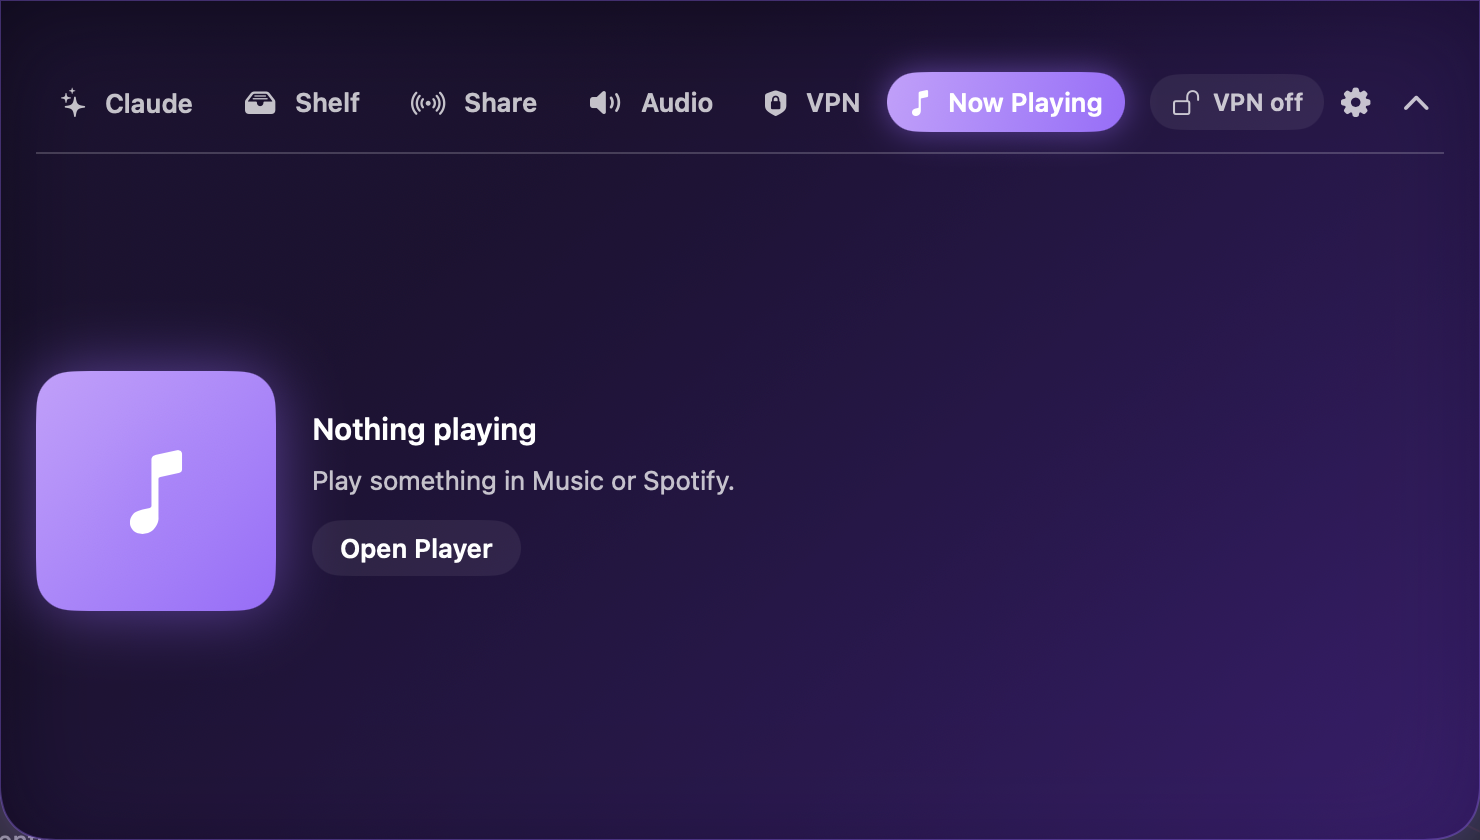
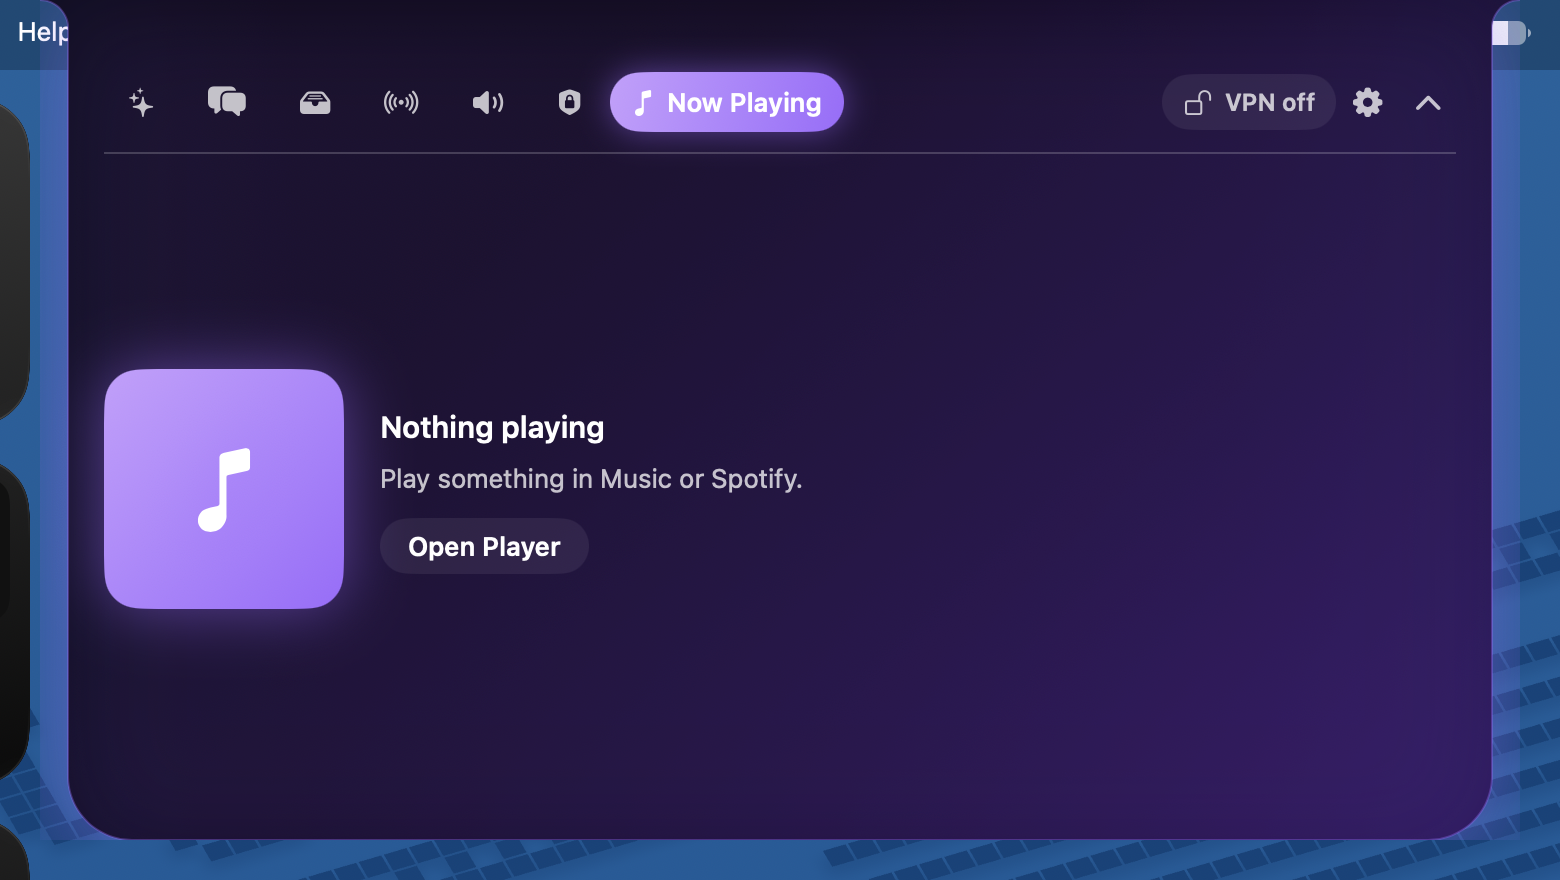
1.3.1: create Messenger rooms, rounded notch silhouette
- Messenger: New room generates a hard-to-guess code, joins it and copies it;
  Copy code while joined; joined notices even when a message beats presence.
- Notch: concave shoulders where it meets the menu bar and continuous rounded
  bottom corners, on both the closed notch and the open panel.
- Fresh README screenshots.

Changed region(s): [[0.0, 0.0, 1.0, 1.0]]

diff --git a/NotchApple/UI/NotchRootView.swift b/NotchApple/UI/NotchRootView.swift
@@ -9,24 +9,46 @@
 
 import SwiftUI
 
-/// Notch silhouette: flat top edge, softly rounded bottom corners.
+/// Notch silhouette, like the MacBook's own notch: concave "shoulders" where
+/// it meets the menu bar, straight sides, and continuous rounded bottom corners.
 struct NotchShape: Shape {
+    var topRadius: CGFloat
     var bottomRadius: CGFloat
-    var animatableData: CGFloat {
-        get { bottomRadius }
-        set { bottomRadius = newValue }
+    /// When false the flat top edge is omitted (used for the outline stroke,
+    /// so no line is drawn along the top of the screen).
+    var closed = true
+
+    var animatableData: AnimatablePair<CGFloat, CGFloat> {
+        get { AnimatablePair(topRadius, bottomRadius) }
+        set { topRadius = newValue.first; bottomRadius = newValue.second }
     }
 
     func path(in rect: CGRect) -> Path {
-        let r = min(bottomRadius, rect.height / 2, rect.width / 2)
+        let t = min(topRadius, rect.width / 4, rect.height / 4)
+        let b = min(bottomRadius, (rect.width - 2 * t) / 2, rect.height - t)
+        let k: CGFloat = 0.55   // cubic approximation of a circular arc
         var p = Path()
         p.move(to: CGPoint(x: rect.minX, y: rect.minY))
-        p.addLine(to: CGPoint(x: rect.maxX, y: rect.minY))
-        p.addLine(to: CGPoint(x: rect.maxX, y: rect.maxY - r))
-        p.addQuadCurve(to: CGPoint(x: rect.maxX - r, y: rect.maxY), control: CGPoint(x: rect.maxX, y: rect.maxY))
-        p.addLine(to: CGPoint(x: rect.minX + r, y: rect.maxY))
-        p.addQuadCurve(to: CGPoint(x: rect.minX, y: rect.maxY - r), control: CGPoint(x: rect.minX, y: rect.maxY))
-        p.closeSubpath()
+        // Left shoulder curves down and in.
+        p.addCurve(to: CGPoint(x: rect.minX + t, y: rect.minY + t),
+                   control1: CGPoint(x: rect.minX + t * k, y: rect.minY),
+                   control2: CGPoint(x: rect.minX + t, y: rect.minY + t * (1 - k)))
+        p.addLine(to: CGPoint(x: rect.minX + t, y: rect.maxY - b))
+        // Bottom-left corner.
+        p.addCurve(to: CGPoint(x: rect.minX + t + b, y: rect.maxY),
+                   control1: CGPoint(x: rect.minX + t, y: rect.maxY - b * (1 - k)),
+                   control2: CGPoint(x: rect.minX + t + b * (1 - k), y: rect.maxY))
+        p.addLine(to: CGPoint(x: rect.maxX - t - b, y: rect.maxY))
+        // Bottom-right corner.
+        p.addCurve(to: CGPoint(x: rect.maxX - t, y: rect.maxY - b),
+                   control1: CGPoint(x: rect.maxX - t - b * (1 - k), y: rect.maxY),
+                   control2: CGPoint(x: rect.maxX - t, y: rect.maxY - b * (1 - k)))
+        p.addLine(to: CGPoint(x: rect.maxX - t, y: rect.minY + t))
+        // Right shoulder curves up and out.
+        p.addCurve(to: CGPoint(x: rect.maxX, y: rect.minY),
+                   control1: CGPoint(x: rect.maxX - t, y: rect.minY + t * (1 - k)),
+                   control2: CGPoint(x: rect.maxX - t * k, y: rect.minY))
+        if closed { p.closeSubpath() }
         return p
     }
 }
@@ -36,14 +58,19 @@ struct NotchRootView: View {
     @EnvironmentObject private var settings: SettingsManager
 
     var body: some View {
-        let size = state.isExpanded ? state.expandedSize : state.notchSize
+        let shoulder = state.isExpanded ? Self.expandedShoulder : Self.collapsedShoulder
+        let size = state.isExpanded
+            ? state.expandedSize
+            : CGSize(width: state.notchSize.width + 2 * shoulder, height: state.notchSize.height)
+        let bottom: CGFloat = state.isExpanded ? 32 : 10
         ZStack(alignment: .top) {
-            NotchShape(bottomRadius: state.isExpanded ? 28 : 10)
+            NotchShape(topRadius: shoulder, bottomRadius: bottom)
                 .fill(state.isExpanded ? AnyShapeStyle(Theme.backdrop) : AnyShapeStyle(Color.black))
                 .overlay {
                     if state.isExpanded {
-                        NotchShape(bottomRadius: 28).fill(.ultraThinMaterial).opacity(0.25)
-                        NotchShape(bottomRadius: 28).stroke(Theme.accent.opacity(0.35), lineWidth: 1)
+                        NotchShape(topRadius: shoulder, bottomRadius: bottom).fill(.ultraThinMaterial).opacity(0.25)
+                        NotchShape(topRadius: shoulder, bottomRadius: bottom, closed: false)
+                            .stroke(Theme.accent.opacity(0.35), lineWidth: 1)
                     }
                 }
                 .shadow(color: state.isExpanded ? Theme.accent.opacity(0.35) : .clear, radius: 24, y: 8)
@@ -62,6 +89,10 @@ struct NotchRootView: View {
         .tint(Theme.accent)
     }
 
+    /// Radius of the concave shoulders where the notch meets the menu bar.
+    static let collapsedShoulder: CGFloat = 6
+    static let expandedShoulder: CGFloat = 14
+
     @ViewBuilder
     private var expandedContent: some View {
         if settings.securityEnabled && !state.isUnlocked {
@@ -76,8 +107,8 @@ struct NotchRootView: View {
                     .transition(.asymmetric(insertion: .move(edge: .trailing).combined(with: .opacity),
                                             removal: .opacity))
             }
-            .padding(.horizontal, 18)
-            .padding(.bottom, 16)
+            .padding(.horizontal, 18 + Self.expandedShoulder)
+            .padding(.bottom, 18)
             .onAppear(perform: ensureValidSelection)
             .onChange(of: settings.enabledTabs) { _, _ in ensureValidSelection() }
         }

diff --git a/NotchApple/Modules/Messenger/NotchMessengerView.swift b/NotchApple/Modules/Messenger/NotchMessengerView.swift
@@ -18,6 +18,7 @@ struct NotchMessengerView: View {
     @StateObject private var identity = MessengerIdentity.shared
     @State private var draft = ""
     @State private var roomDraft = ""
+    @State private var copied = false
 
     private static let emoji = ["👋", "😂", "👍", "❤", "🔥", "🎉"]
 
@@ -95,8 +96,20 @@ struct NotchMessengerView: View {
             TextField("Room code, e.g. cafe-study or 8821", text: $roomDraft)
                 .textFieldStyle(.plain).font(.system(size: 13))
                 .onSubmit(joinRoom)
+            if web.state == .joined, let room = web.room {
+                // Share: copy the code so friends can join the same room.
+                Button { copy(room) } label: {
+                    Label(copied ? "Copied" : "Copy code", systemImage: copied ? "checkmark" : "doc.on.doc")
+                }
+                .buttonStyle(PurpleButtonStyle(prominent: false))
+                .help("Copy this room's code to share it")
+            }
             if web.state == .joined || web.state == .connecting {
                 Button("Leave") { web.leave() }.buttonStyle(PurpleButtonStyle(prominent: false))
+            } else {
+                Button { createRoom() } label: { Label("New room", systemImage: "plus.bubble") }
+                    .buttonStyle(PurpleButtonStyle(prominent: false))
+                    .help("Create a private room with a hard-to-guess code")
             }
             Button(web.room == WebP2PManager.normalize(roomDraft) && web.state == .joined ? "Joined" : "Join", action: joinRoom)
                 .buttonStyle(PurpleButtonStyle())
@@ -105,6 +118,22 @@ struct NotchMessengerView: View {
         .padding(.horizontal, 12).frame(height: 36)
         .background(Theme.surface, in: RoundedRectangle(cornerRadius: 10))
         .help("Anyone with the same code joins the same room. Messages are end-to-end encrypted with a key made from the code, so longer codes are more private.")
+    }
+
+    /// Creates a new private room: a random, hard-to-guess code (about 10¹² combinations),
+    /// joins it, and copies the code so it can be pasted to friends.
+    private func createRoom() {
+        let code = WebP2PManager.newRoomCode()
+        roomDraft = code
+        joinRoom()
+        copy(code)
+    }
+
+    private func copy(_ code: String) {
+        NSPasteboard.general.clearContents()
+        NSPasteboard.general.setString(code, forType: .string)
+        withAnimation { copied = true }
+        DispatchQueue.main.asyncAfter(deadline: .now() + 2) { withAnimation { copied = false } }
     }
 
     private func joinRoom() {
@@ -138,7 +167,9 @@ struct NotchMessengerView: View {
                 .font(.system(size: 26)).foregroundStyle(Theme.accentGradient)
             Text(mode == .nearby
                  ? "Anyone on this Wi-Fi with Notch apple and Messenger open shows up here automatically."
-                 : "Type a room code and press Join. Share the same code with friends to chat. Messages are end-to-end encrypted and never stored.")
+                 : web.state == .joined
+                 ? "You're in the room. Press Copy code and send it to friends; anyone with the code can join."
+                 : "Press New room to create a private room (its code is copied for you to share), or type a friend's code and press Join. Messages are end-to-end encrypted and never stored.")
                 .font(.system(size: 12)).foregroundStyle(Theme.textSecondary)
                 .multilineTextAlignment(.center).frame(maxWidth: 420)
         }

diff --git a/NotchApple/App/NotchWindowController.swift b/NotchApple/App/NotchWindowController.swift
@@ -88,7 +88,7 @@ final class NotchTriggerView: NSView {
     override func draw(_ dirtyRect: NSRect) {
         // The visible notch sits in the middle of the padded hit area.
         let pad = Self.hitPadding
-        var notch = bounds.insetBy(dx: pad.width, dy: 0)
+        var notch = bounds.insetBy(dx: pad.width - NotchRootView.collapsedShoulder, dy: 0)
         notch.origin.y += pad.height
         notch.size.height -= pad.height
         if isHovered {
@@ -98,17 +98,7 @@ final class NotchTriggerView: NSView {
             notch.size.height += 3
         }
 
-        let r = min(10, notch.height / 2)
-        let path = NSBezierPath()
-        path.move(to: NSPoint(x: notch.minX, y: notch.maxY))
-        path.line(to: NSPoint(x: notch.maxX, y: notch.maxY))
-        path.line(to: NSPoint(x: notch.maxX, y: notch.minY + r))
-        path.curve(to: NSPoint(x: notch.maxX - r, y: notch.minY),
-                   controlPoint1: NSPoint(x: notch.maxX, y: notch.minY), controlPoint2: NSPoint(x: notch.maxX, y: notch.minY))
-        path.line(to: NSPoint(x: notch.minX + r, y: notch.minY))
-        path.curve(to: NSPoint(x: notch.minX, y: notch.minY + r),
-                   controlPoint1: NSPoint(x: notch.minX, y: notch.minY), controlPoint2: NSPoint(x: notch.minX, y: notch.minY))
-        path.close()
+        let path = Self.notchPath(in: notch, shoulder: NotchRootView.collapsedShoulder, bottom: min(10, notch.height / 2))
         NSColor.black.setFill()
         path.fill()
 
@@ -117,6 +107,30 @@ final class NotchTriggerView: NSView {
             path.lineWidth = 1.5
             path.stroke()
         }
+    }
+
+    /// AppKit twin of `NotchShape` (AppKit's y axis points up, so top = maxY).
+    static func notchPath(in r: NSRect, shoulder t: CGFloat, bottom b: CGFloat) -> NSBezierPath {
+        let k: CGFloat = 0.55
+        let p = NSBezierPath()
+        p.move(to: NSPoint(x: r.minX, y: r.maxY))
+        p.curve(to: NSPoint(x: r.minX + t, y: r.maxY - t),
+                controlPoint1: NSPoint(x: r.minX + t * k, y: r.maxY),
+                controlPoint2: NSPoint(x: r.minX + t, y: r.maxY - t * (1 - k)))
+        p.line(to: NSPoint(x: r.minX + t, y: r.minY + b))
+        p.curve(to: NSPoint(x: r.minX + t + b, y: r.minY),
+                controlPoint1: NSPoint(x: r.minX + t, y: r.minY + b * (1 - k)),
+                controlPoint2: NSPoint(x: r.minX + t + b * (1 - k), y: r.minY))
+        p.line(to: NSPoint(x: r.maxX - t - b, y: r.minY))
+        p.curve(to: NSPoint(x: r.maxX - t, y: r.minY + b),
+                controlPoint1: NSPoint(x: r.maxX - t - b * (1 - k), y: r.minY),
+                controlPoint2: NSPoint(x: r.maxX - t, y: r.minY + b * (1 - k)))
+        p.line(to: NSPoint(x: r.maxX - t, y: r.maxY - t))
+        p.curve(to: NSPoint(x: r.maxX, y: r.maxY),
+                controlPoint1: NSPoint(x: r.maxX - t, y: r.maxY - t * (1 - k)),
+                controlPoint2: NSPoint(x: r.maxX - t * k, y: r.maxY))
+        p.close()
+        return p
     }
 
     override func acceptsFirstMouse(for event: NSEvent?) -> Bool { true }

diff --git a/NotchApple/Modules/Messenger/WebP2PManager.swift b/NotchApple/Modules/Messenger/WebP2PManager.swift
@@ -78,6 +78,18 @@ final class WebP2PManager: ObservableObject {
         return r
     }
 
+    /// A fresh, readable, hard-to-guess room code, e.g. `violet-otter-4821-k7qz`.
+    static func newRoomCode() -> String {
+        let words = ["violet", "amber", "cobalt", "coral", "jade", "lunar", "solar", "misty", "velvet", "neon",
+                     "maple", "cedar", "orbit", "pixel", "ember", "frost"]
+        let animals = ["otter", "panda", "falcon", "lynx", "koala", "raven", "tiger", "gecko",
+                       "moose", "heron", "bison", "dingo", "manta", "puffin", "yak", "zebra"]
+        let alphabet = Array("abcdefghjkmnpqrstuvwxyz23456789")
+        var rng = SystemRandomNumberGenerator()
+        let tail = String((0..<4).map { _ in alphabet.randomElement(using: &rng)! })
+        return "\(words.randomElement(using: &rng)!)-\(animals.randomElement(using: &rng)!)-\(Int.random(in: 1000...9999, using: &rng))-\(tail)"
+    }
+
     func join(_ rawRoom: String) {
         let room = Self.normalize(rawRoom)
         guard !room.isEmpty else { return }
@@ -160,6 +172,7 @@ final class WebP2PManager: ObservableObject {
         case .message:
             guard !isMe, !seenIDs.contains(env.id), let text = env.text else { return }
             seenIDs.insert(env.id)
+            if members[env.senderID] == nil { notice("\(env.sender) joined") }
             members[env.senderID] = (String(env.sender.prefix(32)), .now)
             messages.append(MessengerMessage(id: env.id, senderID: env.senderID, sender: String(env.sender.prefix(32)),
                                              text: String(text.prefix(2000)), date: env.ts, isMine: false))

diff --git a/README.md b/README.md
@@ -43,7 +43,7 @@ Every module is **optional** and can be switched on or off in **Settings → Mod
 | Module | What it does |
 | --- | --- |
 | ✨ **Claude** | Chat with Claude from the notch using **your own** Anthropic API key, which is stored in the Keychain. Tap **Share Screen** to attach a screenshot so Claude can see what you're looking at. |
-| 💬 **Messenger** | Chat anonymously with **people on the same Wi-Fi** (found automatically, encrypted between Macs), or join an **anonymous room** with any code, like `cafe-study` or `8821`. Rooms are end-to-end encrypted, and nothing is stored anywhere. You get a random handle like `PurplePanda#402`, and there are no accounts. See [Using Messenger](#using-messenger). |
+| 💬 **Messenger** | Chat anonymously with **people on the same Wi-Fi** (found automatically, encrypted between Macs), or **create or join an anonymous room** with a code, like `cafe-study` or `8821`. Rooms are end-to-end encrypted, and nothing is stored anywhere. You get a random handle like `PurplePanda#402`, and there are no accounts. See [Using Messenger](#using-messenger). |
 | 🗂 **File Shelf** | Drag a file onto the notch and it opens straight to the shelf. Files stay there across relaunches thanks to security-scoped bookmarks. Double-click to open, or drag them back out. There's also an **Add files…** button. |
 | 📡 **Share** | Send files with **AirDrop**, or use **PairDrop** between devices on the same Wi-Fi. To receive, just show your 6-digit code. To send, type the other device's code; there's no need to pick the device. No server is involved. |
 | 🔊 **Audio** | Pick the output device, set the master volume, and change **per-app volume (0–150%)** and a **10-band per-app EQ** with presets. It's built in on macOS 14.2+, with nothing to install. |
@@ -83,7 +83,9 @@ Open the notch and click the 💬 tab. Your handle (for example `MistyOwl#769`) 
 
 **Nearby Wi-Fi.** Anyone on the same network with Notch apple and Messenger open appears automatically ("2 people nearby on Wi-Fi"). Just type. This uses Apple's MultipeerConnectivity with encryption required, and works without internet.
 
-**Anonymous room.** Type any room code and press **Join**. Everyone who enters the same code (`#Cafe-Study`, `cafe-study` and `CAFE-STUDY ` all count as the same) is in the same room and shown as "3 online".
+**Create a room.** In **Anonymous room** mode, press **New room**. Notch apple makes a private, hard-to-guess code (like `ember-puffin-4576-2rjc`), joins it, and copies it to your clipboard. Paste it to your friends; they paste it into the room box and press **Join**. **Copy code** copies it again at any time.
+
+**Join a room.** Type any room code and press **Join**. Everyone who enters the same code (`#Cafe-Study`, `cafe-study` and `CAFE-STUDY ` all count as the same) is in the same room and shown as "3 online".
 
 How rooms stay private:
 - The code is hashed on your Mac with SHA-256 into two separate values: a topic name for the relay, and a 256-bit AES-GCM key.
@@ -91,7 +93,7 @@ How rooms stay private:
 - Messages are relayed live through the free, open-source [ntfy.sh](https://ntfy.sh) service over HTTPS (port 443, so it works on school and office Wi-Fi). Each message is sent with `Cache: no`, so the relay stores nothing. Public MQTT brokers are used as a fallback.
 - Chat history only lives in memory. **Settings → Messenger → Clear chat history and disconnect** wipes it.
 
-> Anyone who knows the code can join the room, and short numeric codes are easy to guess. For a private chat, use a longer, unusual room name.
+> Anyone who knows the code can join the room, and short numeric codes are easy to guess. For a private chat, use **New room**, which makes a code with about a trillion possibilities.
 
 Turn off **Allow local network discovery** in **Settings → Messenger** to stay invisible on your Wi-Fi.
 
